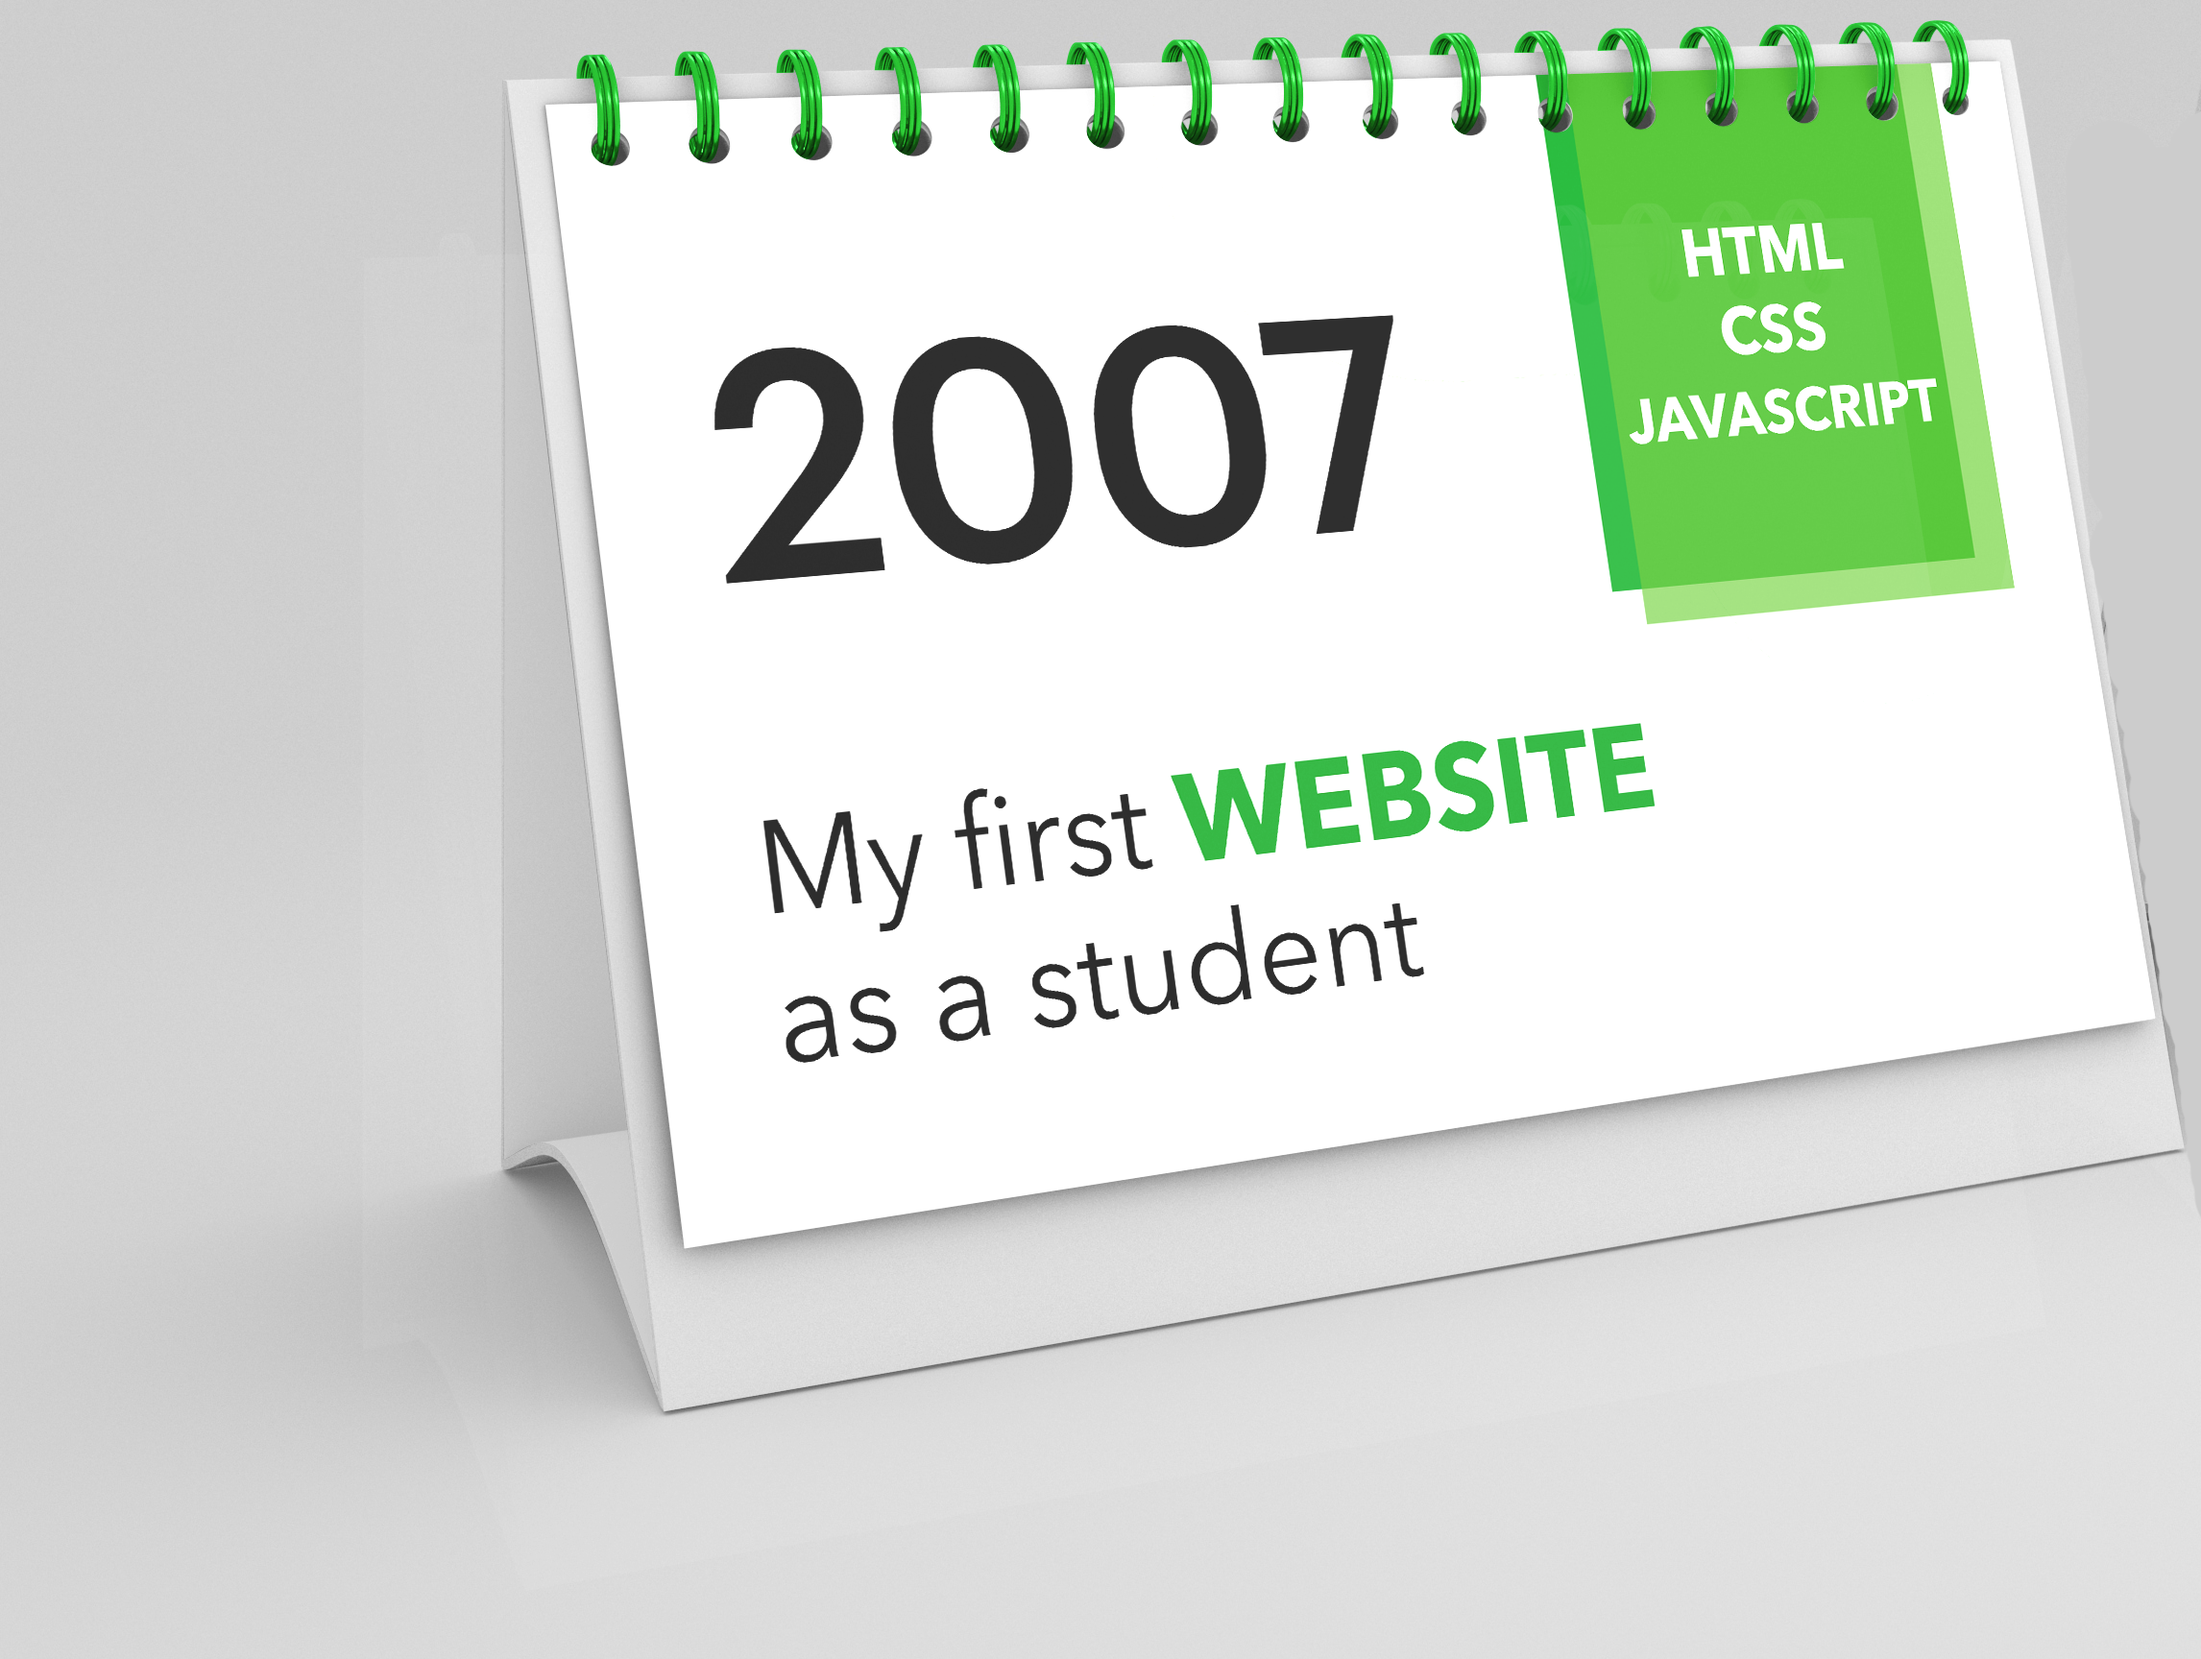
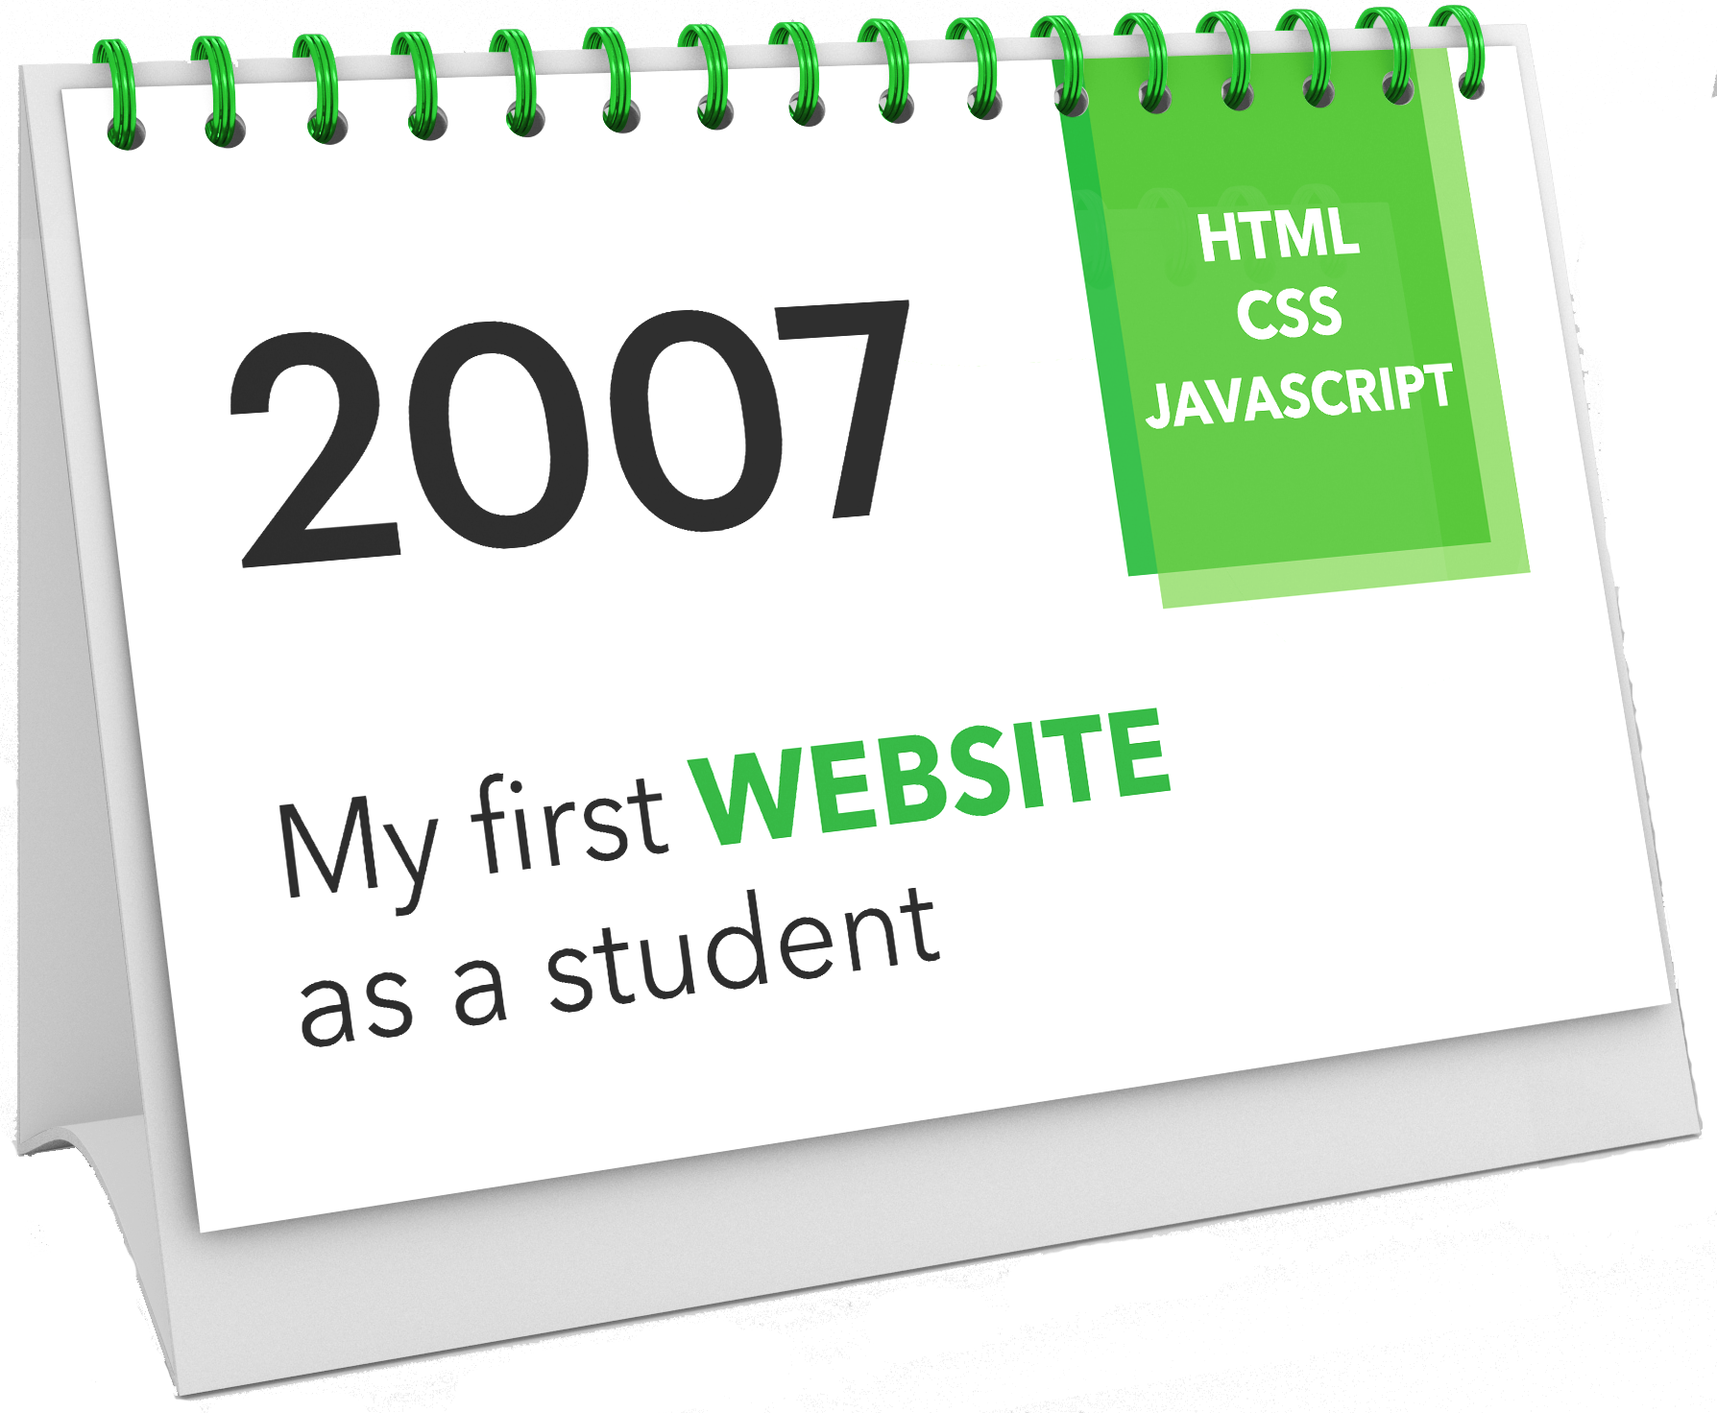
Timeline calendar

diff --git a/incl/css/home.css b/incl/css/home.css
@@ -725,6 +725,79 @@ CSS
 
 
 
+/* 
+Timeline CSS
+ */
+
+ .timeline {
+  position: relative;
+  padding: 9% 4%;
+  padding-top: 7%;
+  background-color: #cdcdcd;
+  background: url('../../media/img/bkgd/stage02.jpg');
+  background-size: cover;
+  background-position: center;
+ }
+ .timeline .calendars {
+ }
+ .calendar {
+  position: relative;
+  width: 46%;
+  padding: 1% 1%;
+  transition: 0.6s ease all;
+ }
+ .calendar img {
+  transition: 0.6s ease all;
+  transform: perspective(1000px);
+  /* transform: rotateX(-20deg) rotateY(-10deg) rotateZ(0deg);  */
+ }
+ .calendar:hover img {
+}
+.timeline .disclaimer {
+  margin-top: 21px;
+  color: #606060;
+  text-align: right;
+}
+.timeline .button-3 {
+  margin: 0 auto;
+  padding: 18px 42px;
+  padding-top: 16px;
+  letter-spacing: 0.028em;
+  border-radius: 0.0em;
+  line-height: 1.15;
+  font-size: 1.54em;
+  color: #1bb131;
+  font-family: fontBody;
+  /* font-weight: bold; */
+}
+.timeline .button-3:hover {
+  color: white;
+  background-color: #1bb131;
+  padding: 18px 48px;
+  padding-top: 16px;
+  letter-spacing: 0.096em;
+}
+.timeline .arrow-image {
+  position: absolute;
+  text-align: center;
+  /* width: 40%; */
+  margin: 0 50%;
+}
+.timeline .arrow-image img {
+  filter: invert(1);
+  display: none;
+  margin: 0 auto;
+  margin-top: 7em;
+  position: relative;
+  height: 7.5em;
+  width: auto;
+  text-align: center;
+  transform: rotate(-10deg);
+}
+
+
+
+
 
 
 /* 
@@ -933,4 +1006,7 @@ CSS
   filter: saturate(1.4);
 }
 .landscape .design-col {
+}
+.show {
+  display: block !important;
 }

diff --git a/views/ui/timeline.php b/views/ui/timeline.php
@@ -1,68 +1,113 @@
-<div class="workflow design-workflow cf">
-    <div class="inner cf flex flex-center">
+<div class="timeline cf">
 
-        <div class="unit col fadeInDown anim-s2 anim-fast wow">
+    <div class="calendars cf flex">
 
-            <div class="title">
-                <div class="heading">
-                    Thinking <br> Client Story <br>Research
-                </div>
-            </div>
-
-            <div class="images">
-                <img src="media/img/artwork/line-man-thinking.png" alt="artwork" class="line-man-thinking">
-
-                <img src="media/img/artwork/hello-7.png" alt="artwork">
-            </div>
-
+        <div class="calendar one">
+            <img src="media/img/calendars/2007.png" alt="website timeline calendar">
         </div>
-        <!-- unit -->
-
-        <div class="unit col two fadeInUp anim-s5 anim-fast wow">
-
-            <div class="title">
-                <div class="heading">Content Writeup<br> Artwork Design <br>Data Plan & Database</div>
-            </div>
-
-            <div class="images ">
-            </div>
-
+        <div class="calendar two">
+            <img src="media/img/calendars/2010.png" alt="website timeline calendar">
         </div>
-        <!-- unit -->
-
-        <div class="unit col three fadeInDown anim-s8  anim-fast wow">
-
-            <div class="title">
-                <div class="heading">UI & UX <br>Client Approval<br> Coding</div>
-            </div>
-
-            <div class="images">
-                <img src="media/img/artwork/line-man-coding.png" alt="artwork" class="line-man-coding">
-            </div>
-
+        <div class="calendar three">
+            <img src="media/img/calendars/2012.png" alt="website timeline calendar">
         </div>
-        <!-- unit -->
-
-
-        <div class="unit col four fadeInUp anim-s11 anim-fast wow">
-
-            <div class="title">
-                <div class="heading">Testing & Improving <br>Device, Browser, SEO, Technical <br> Server & Hosting<br>User Training</div>
-            </div>
-
-            <div class="images">
-                <img src="media/img/fp/circular-ruler.png" alt="artwork" class="ruler  slide-bottom-3">
-            </div>
-
+        <div class="calendar four">
+            <img src="media/img/calendars/2007.png" alt="website timeline calendar">
         </div>
-        <!-- unit -->
-
-
-
-        <!-- unit -->
-
-
-
+        <div class="calendar five">
+            <img src="media/img/calendars/2012.png" alt="website timeline calendar">
+        </div>
     </div>
+    <!-- calendars -->
+
+
+    <div class="disclaimer">
+        <div class="spcd"></div>
+        <div class="text fnts">Calendar 3D mockup acquired through Ariel.</div>
+    </div>
+
+    <div class="capsa100 tac cf flex flex-center">
+        <div class="button button-3">
+            NEXT
+        </div>
+        <div class="arrow-image cf">
+            <img src="media/img/icons/arrow-right-1.png">
+        </div>
+    </div>
+
+
 </div>
-<!-- design-workflow -->
+<!-- timeline -->
+
+
+<script>
+    $(document).ready(function() {
+        $('.timeline .button-3').on('mouseover', function() {
+            // $('.timeline .arrow-image img').addClass('show fadeIn anim-fast wow slide-bottom');
+            // $('.timeline .button-3').css('color', '#0ea825');
+        })
+        $('.timeline .button-3').on('mouseleave', function() {
+            // $('.timeline .arrow-image img').removeClass('show fadeIn anim-fast wow');
+        })
+
+
+
+
+        // $('.calendars .two').css('opacity', '0');
+        // $('.calendars .three').css('opacity', '0');
+        // $('.calendars .four').css('opacity', '0');
+        // $('.calendars five').css('opacity', '0');
+
+        $('.calendars .two').css('display', 'none');
+        $('.calendars .three').css('display', 'none');
+        $('.calendars .four').css('display', 'none');
+        $('.calendars .five').css('display', 'none');
+
+
+        var currentCalendar = 1;
+        console.log(currentCalendar);
+
+        if (currentCalendar === 1) {
+            $('.timeline .button-3').on('click', function() {
+                $('.calendars .one').css('display', 'none');
+                $('.calendars .two').css('display', 'block');
+                currentCalendar = 2;
+                console.log(currentCalendar);
+            });
+        }
+
+        if (currentCalendar === 2) {
+            $('.timeline .button-3').on('click', function() {
+                $('.calendars .two').css('display', 'none');
+                $('.calendars .three').css('display', 'block');
+                currentCalendar = 3;
+                console.log(currentCalendar);
+            });
+        }
+
+        if (currentCalendar === 3) {
+            $('.timeline .button-3').on('click', function() {
+                $('.calendars .three').css('display', 'none');
+                $('.calendars .four').css('display', 'block');
+                currentCalendar = 4;
+                console.log(currentCalendar);
+            });
+        }
+
+        if (currentCalendar === 4) {
+            $('.timeline .button-3').on('click', function() {
+                $('.calendars .four').css('display', 'none');
+                $('.calendars .five').css('display', 'block');
+                currentCalendar = 5;
+            });
+        }
+
+        if (currentCalendar === 5) {
+            $('.timeline .button-3').on('click', function() {
+                $('.calendars .five').css('display', 'none');
+                $('.calendars .one').css('display', 'block');
+                currentCalendar = 1;
+            });
+        }
+    });
+</script>

diff --git a/modules/first-screen-module.php b/modules/first-screen-module.php
@@ -5,5 +5,5 @@
     include 'views/ui/timeline.php';
     include 'views/ui/design-workflow.php';
     include 'views/ui/welcome-landscape.php';
-    include 'views/ui/projects.php';
+    // include 'views/ui/projects.php';
 ?>
